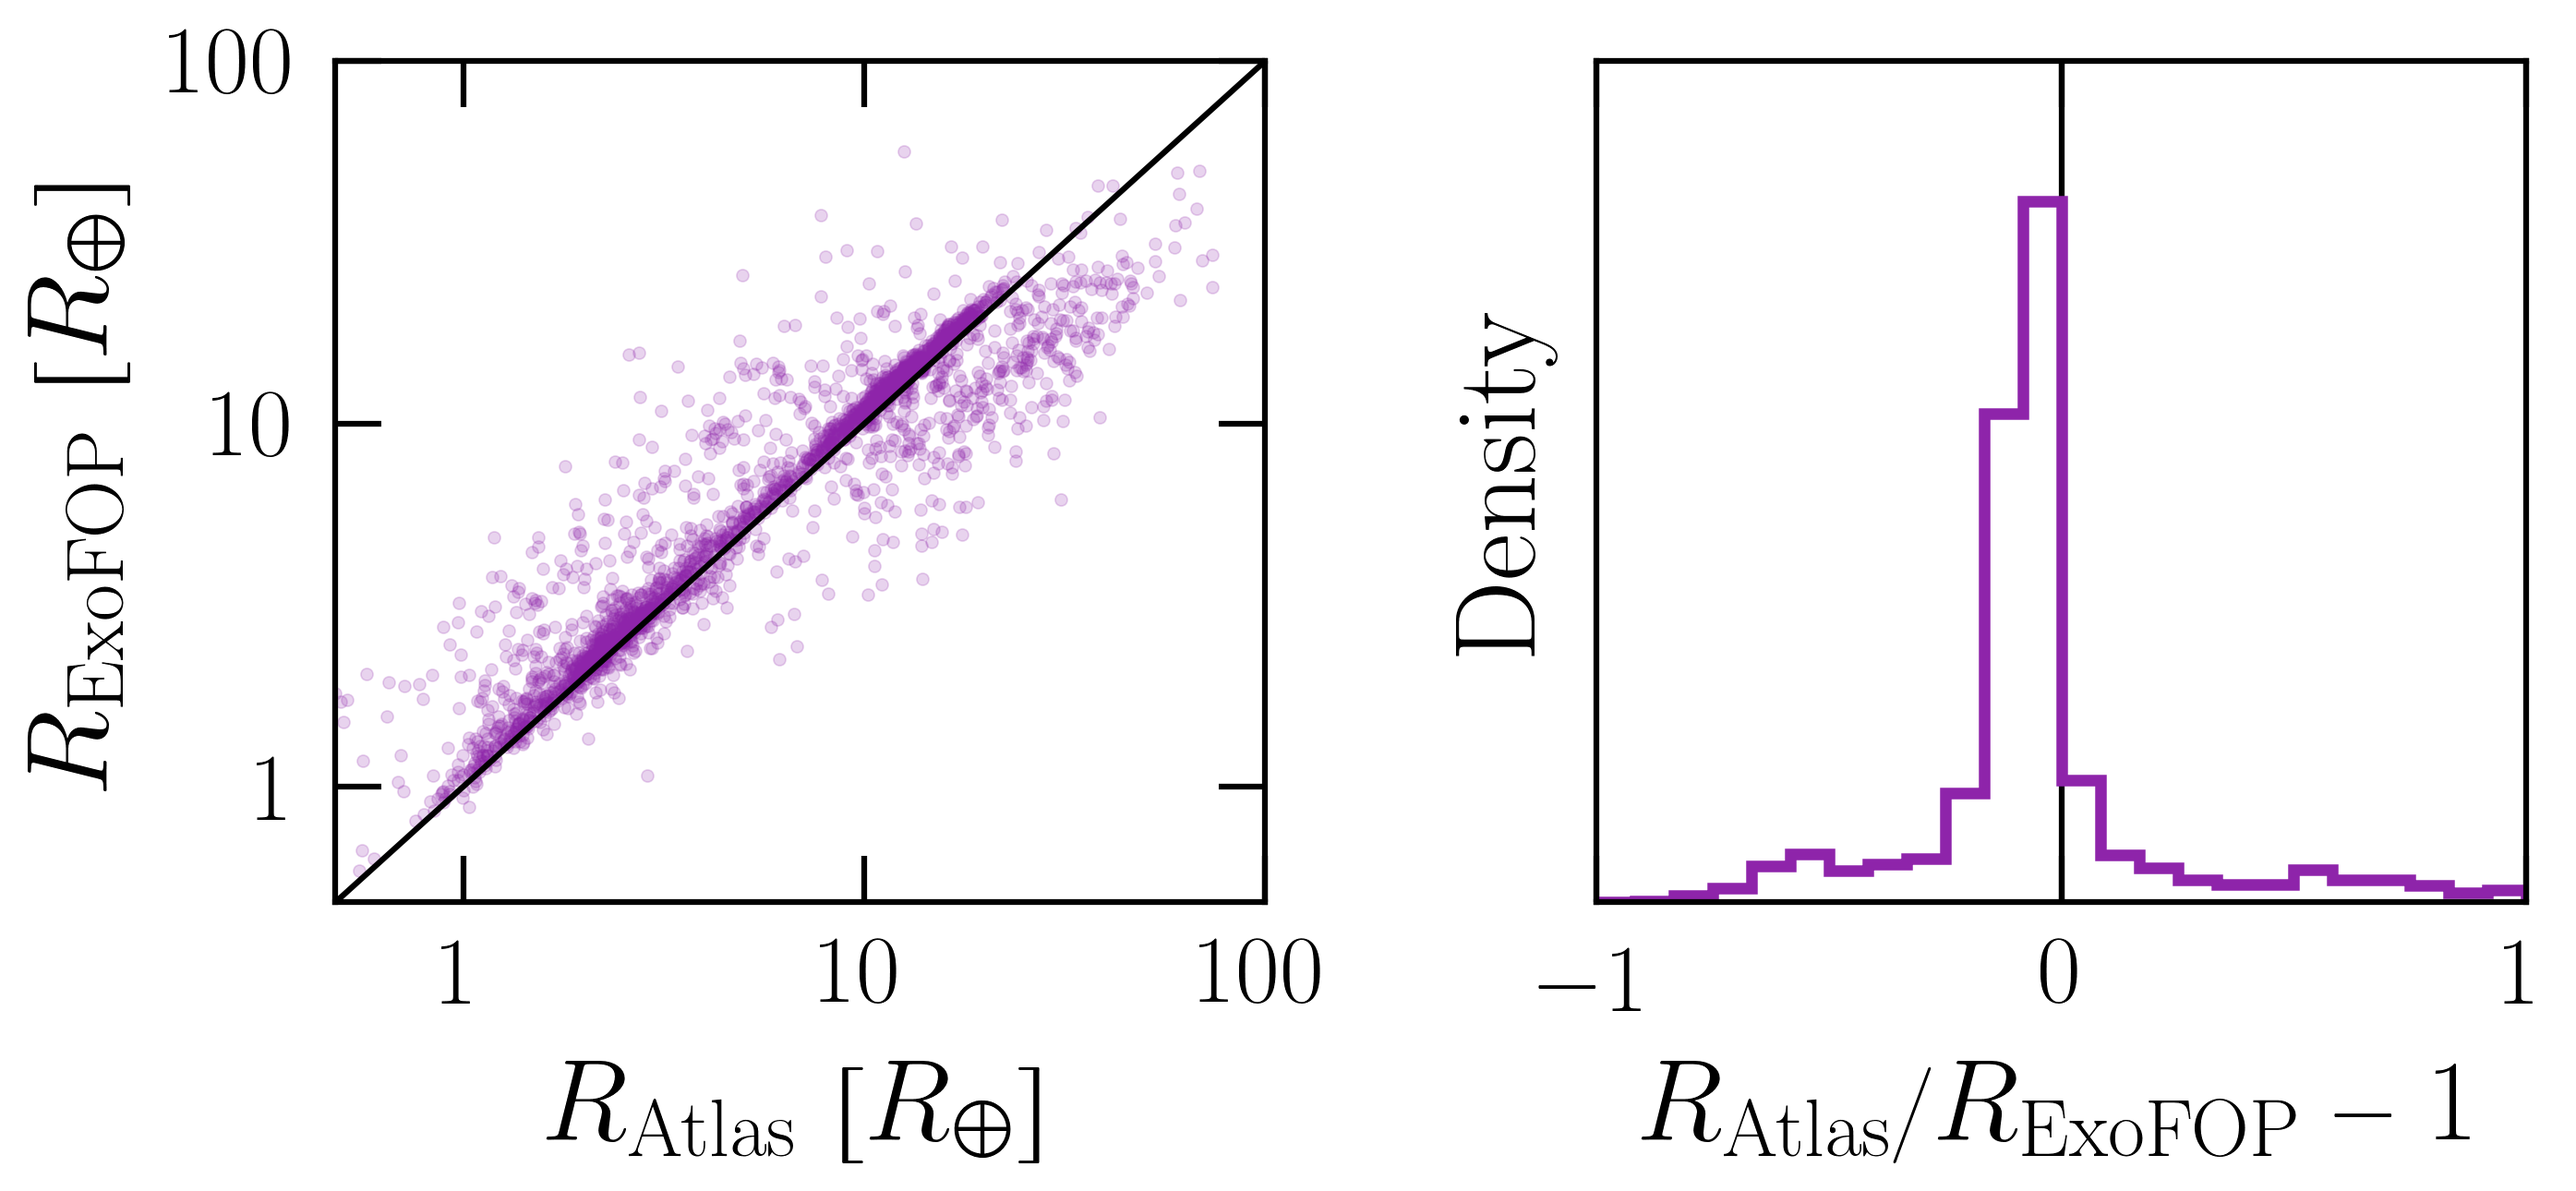
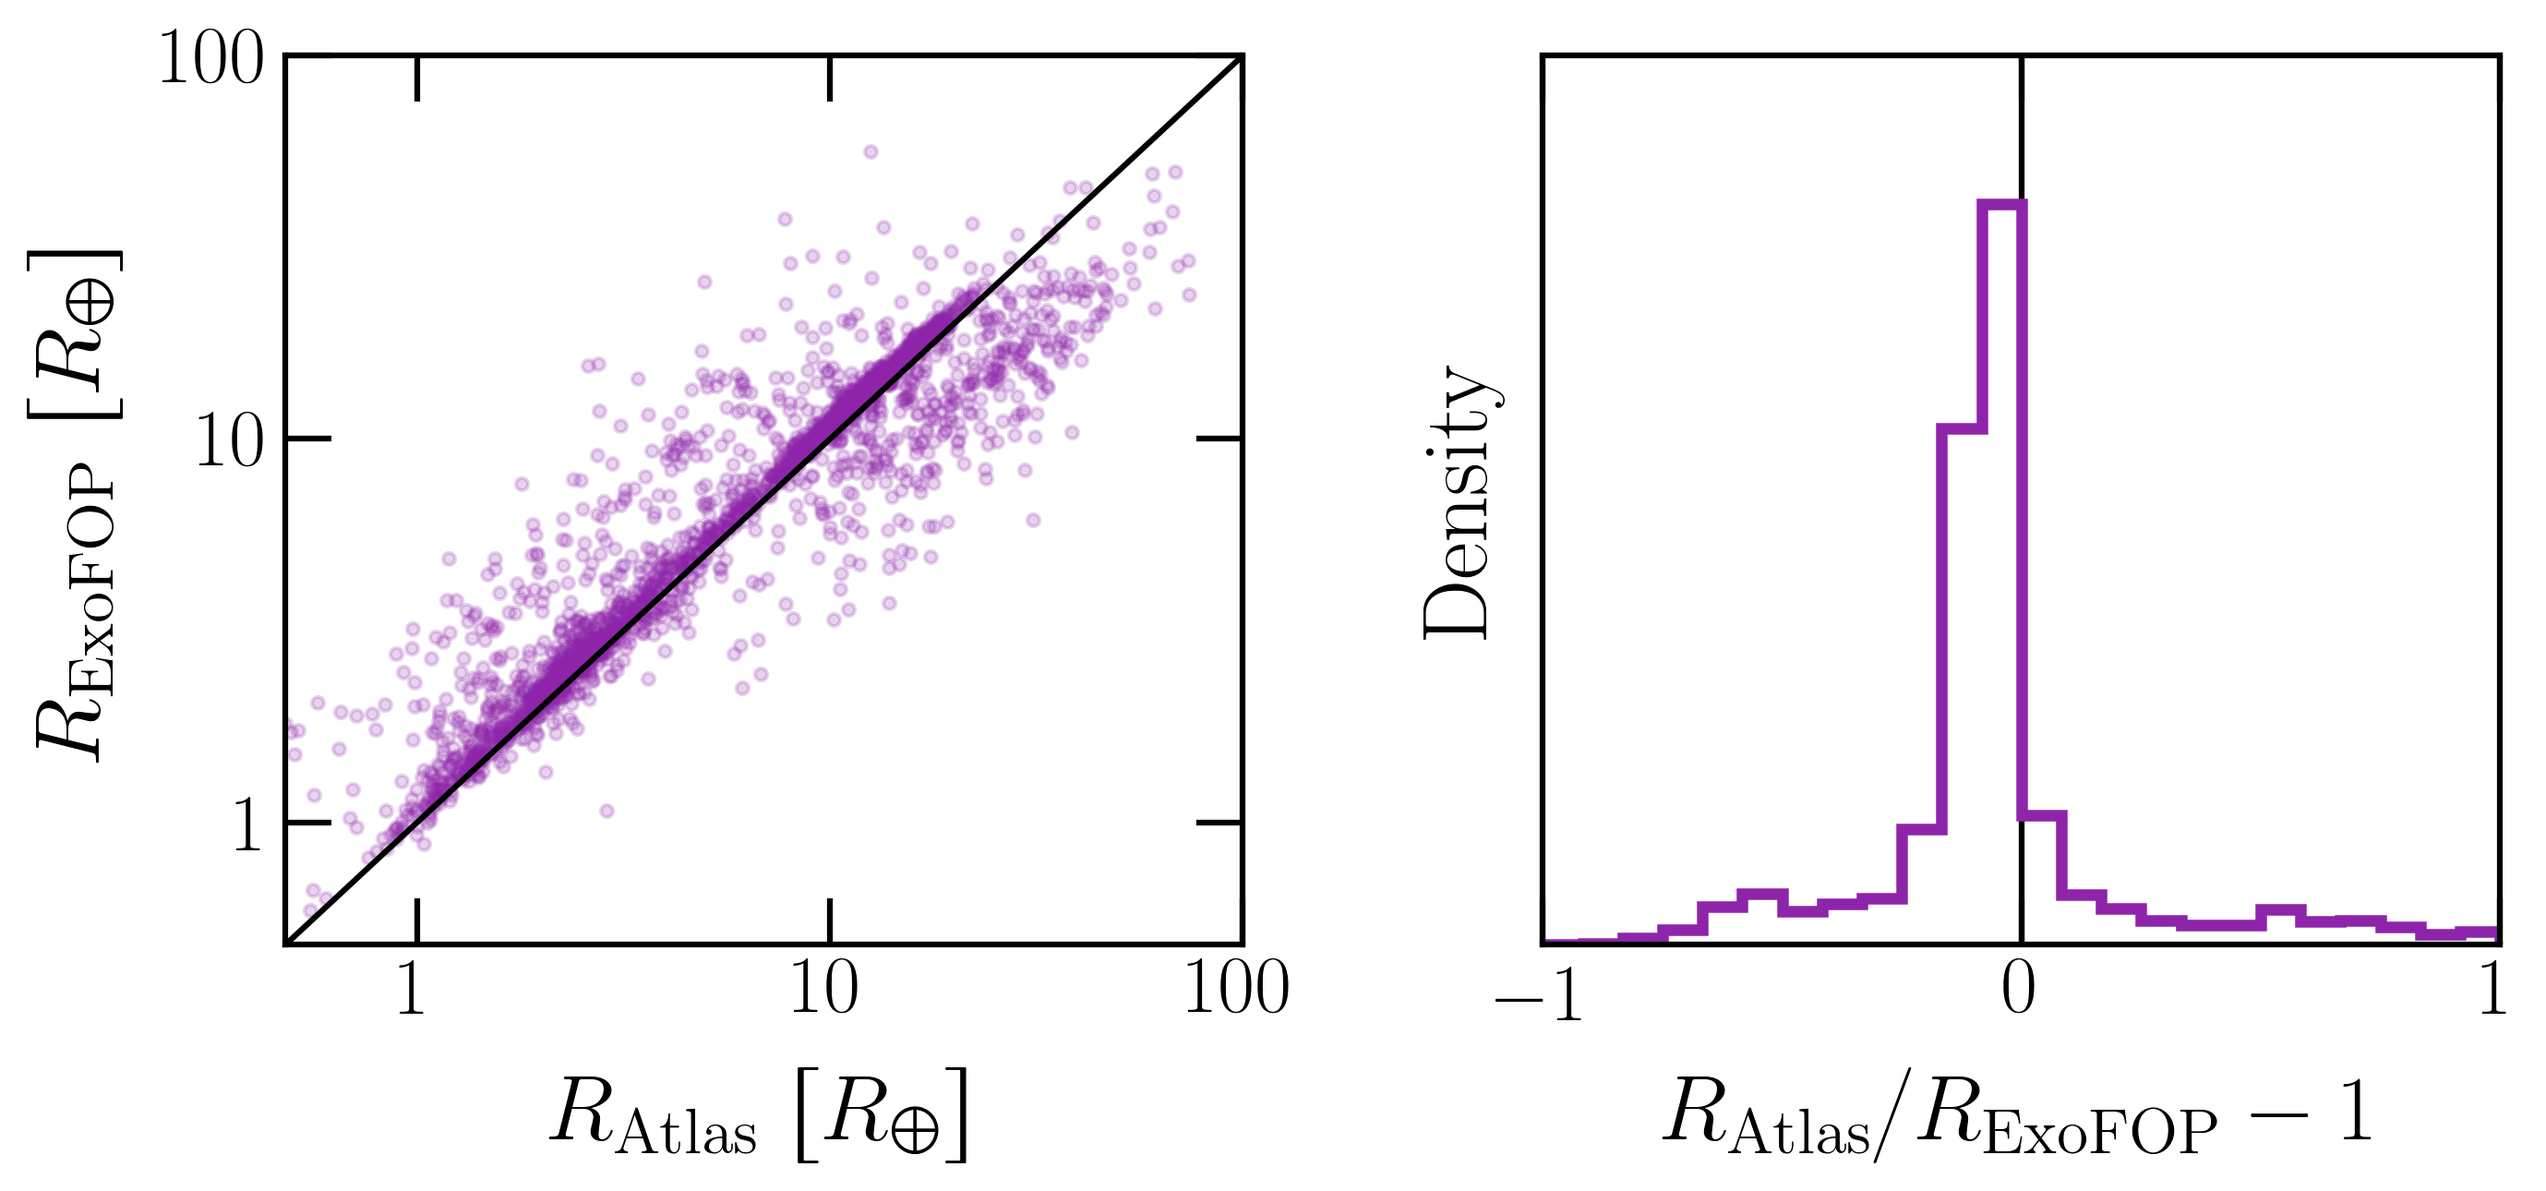
add more plots (#244)

diff --git a/paper/figures/make_plots.py.py b/paper/figures/make_plots.py.py
@@ -20,6 +20,8 @@
 # %autoreload 2
 # %matplotlib inline
 
+# # Make Population Plots of Radius 
+
 # +
 import os, subprocess
 import pandas as pd
@@ -118,22 +120,22 @@ def load_confirmed_catalog(only_transit_exoplanets=True):
 
 
 def set_matplotlib_style_settings(
-    major=7, minor=3, linewidth=1.5, grid=False, topon=True, righton=True
+    major=7, minor=3, linewidth=1.5, grid=False, topon=True, righton=True, tdir="in", fs=30, tickmult=0.7
 ):
-    rcParams["font.size"] = 30
+    rcParams["font.size"] = fs
     rcParams["font.family"] = "serif"
     rcParams["font.weight"] = "normal"
     rcParams["font.sans-serif"] = ["Computer Modern Sans"]
     rcParams["text.usetex"] = True
-    rcParams["axes.labelsize"] = 30
-    rcParams["axes.titlesize"] = 30
+    rcParams["axes.labelsize"] = fs * 0.8
+    rcParams["axes.titlesize"] = fs * 0.8
     rcParams["axes.labelpad"] = 10
     rcParams["axes.linewidth"] = linewidth
     rcParams["axes.edgecolor"] = "black"
-    rcParams["xtick.labelsize"] = 25
-    rcParams["ytick.labelsize"] = 25
-    rcParams["xtick.direction"] = "in"
-    rcParams["ytick.direction"] = "in"
+    rcParams["xtick.labelsize"] = fs * tickmult
+    rcParams["ytick.labelsize"] = fs * tickmult
+    rcParams["xtick.direction"] = tdir
+    rcParams["ytick.direction"] = tdir
     rcParams["xtick.major.size"] = major
     rcParams["xtick.minor.size"] = minor
     rcParams["ytick.major.size"] = major
@@ -142,6 +144,7 @@ def set_matplotlib_style_settings(
     rcParams["xtick.major.width"] = linewidth
     rcParams["ytick.minor.width"] = linewidth
     rcParams["ytick.major.width"] = linewidth
+    rcParams["savefig.dpi"] = 300
     rcParams["xtick.top"] = topon
     rcParams["ytick.right"] = righton
     rcParams["axes.grid"] = grid
@@ -317,7 +320,7 @@ def make_radius_comparions_plot():
     axes[0].set_xticks([1,10,100])
     axes[0].set_yticks([1,10,100])
     fig.tight_layout()
-    fig.savefig("radius_error.png", dpi=300, transparent=False, facecolor='white', bbox_inches='tight', )
+    fig.savefig("radius_error.png", transparent=False, facecolor='white', bbox_inches='tight', )
 
 
 def make_period_radius_comparison_plot():
@@ -328,10 +331,326 @@ def make_period_radius_comparison_plot():
     add_solar_sys_planet_radii_lines(ax[1])
     plot_radii_hist(ax[0])
     add_solar_sys_planet_radii_lines(ax[0])
-    fig.savefig("radius_period_plot.png", dpi=300, transparent=False,facecolor='white',bbox_inches='tight', )
+    fig.savefig("radius_period_plot.png", transparent=False,facecolor='white',bbox_inches='tight', )
     return fig
 
 
     
 fig = make_period_radius_comparison_plot()
 make_radius_comparions_plot()
+# -
+
+# # Make TOI specific plots
+
+# ! download_toi 174 --outdir toi_174_files
+# ! download_toi 103 --outdir toi_174_files
+
+# +
+from tess_atlas.data import TICEntry
+import os
+import aesara_theano_fallback.tensor as tt
+import exoplanet as xo
+import numpy as np
+import pandas as pd
+import pymc3 as pm
+import pymc3_ext as pmx
+from arviz import InferenceData
+from celerite2.theano import GaussianProcess, terms
+
+
+
+
+DEPTH = "depth"
+DURATION = "dur"
+RADIUS_RATIO = "r"
+TIME_START = "tmin"
+TIME_END = "tmax"
+ORBITAL_PERIOD = "p"
+MEAN_FLUX = "f0"
+LC_JITTER = "jitter"
+GP_RHO = "rho"
+GP_SIGMA = "sigma"
+RHO_CIRC = "rho_circ"  # stellar density at e=0
+LIMB_DARKENING_PARAM = "u"
+IMPACT_PARAM = "b"
+
+
+def get_test_duration(min_durations, max_durations, durations):
+    largest_min_duration = np.amax(
+        np.array([durations, 2 * min_durations]), axis=0
+    )
+    smallest_max_duration = np.amin(
+        np.array([largest_min_duration, 0.99 * max_durations]), axis=0
+    )
+    return smallest_max_duration
+
+
+def build_planet_transit_model(tic_entry):
+    t = tic_entry.lightcurve.time
+    y = tic_entry.lightcurve.flux
+    yerr = tic_entry.lightcurve.flux_err
+
+    n = tic_entry.planet_count
+    tmins = np.array([planet.tmin for planet in tic_entry.candidates])
+    depths = np.array([planet.depth for planet in tic_entry.candidates])
+    durations = np.array([planet.duration for planet in tic_entry.candidates])
+    max_durations = np.array(
+        [planet.duration_max for planet in tic_entry.candidates]
+    )
+    min_durations = np.array(
+        [planet.duration_min for planet in tic_entry.candidates]
+    )
+    test_duration = get_test_duration(min_durations, max_durations, durations)
+
+    with pm.Model() as my_planet_transit_model:
+        ## define planet parameters
+
+        # 1) d: transit duration (duration of eclipse)
+        d_priors = pm.Bound(
+            pm.Lognormal, lower=min_durations, upper=max_durations
+        )(
+            name=DURATION,
+            mu=np.log(durations),
+            sigma=np.log(1.2),
+            shape=n,
+            testval=test_duration,
+        )
+
+        # 2) r: radius ratio (planet radius / star radius)
+        r_priors = pm.Lognormal(
+            name=RADIUS_RATIO, mu=0.5 * np.log(depths * 1e-3), sd=1.0, shape=n
+        )
+        # 3) b: impact parameter
+        b_priors = xo.distributions.ImpactParameter(
+            name=IMPACT_PARAM, ror=r_priors, shape=n
+        )
+        planet_priors = [r_priors, d_priors, b_priors]
+
+        ## define orbit-timing parameters
+
+        # 1) tmin: the time of the first transit in data (a reference time)
+        tmin_norm = pm.Bound(
+            pm.Normal, lower=tmins - max_durations, upper=tmins + max_durations
+        )
+        tmin_priors = tmin_norm(
+            TIME_START, mu=tmins, sigma=0.5 * durations, shape=n, testval=tmins
+        )
+
+        # 2) period: the planets' orbital period
+        p_params, p_priors_list, tmax_priors_list = [], [], []
+        for n, planet in enumerate(tic_entry.candidates):
+            # if only one transit in data we use the period
+            if planet.has_data_only_for_single_transit:
+                p_prior = pm.Pareto(
+                    name=f"{ORBITAL_PERIOD}_{planet.index}",
+                    m=planet.period_min,
+                    alpha=2.0 / 3.0,
+                    testval=planet.period,
+                )
+                p_param = p_prior
+                tmax_prior = planet.tmin
+            # if more than one transit in data we use a second time reference (tmax)
+            else:
+                tmax_norm = pm.Bound(
+                    pm.Normal,
+                    lower=planet.tmax - planet.duration_max,
+                    upper=planet.tmax + planet.duration_max,
+                )
+                tmax_prior = tmax_norm(
+                    name=f"{TIME_END}_{planet.index}",
+                    mu=planet.tmax,
+                    sigma=0.5 * planet.duration,
+                    testval=planet.tmax,
+                )
+                p_prior = (tmax_prior - tmin_priors[n]) / planet.num_periods
+                p_param = tmax_prior
+
+            p_params.append(p_param)  # the param needed to calculate p
+            p_priors_list.append(p_prior)
+            tmax_priors_list.append(tmax_prior)
+
+        p_priors = pm.Deterministic(ORBITAL_PERIOD, tt.stack(p_priors_list))
+        tmax_priors = pm.Deterministic(TIME_END, tt.stack(tmax_priors_list))
+
+        ## define stellar parameters
+
+        # 1) f0: the mean flux from the star
+        f0_prior = pm.Normal(name=MEAN_FLUX, mu=0.0, sd=10.0)
+
+        # 2) u1, u2: limb darkening parameters
+        u_prior = xo.distributions.QuadLimbDark("u")
+        stellar_priors = [f0_prior, u_prior]
+
+        ## define k(t, t1; parameters)
+        jitter_prior = pm.InverseGamma(
+            name=LC_JITTER, **pmx.estimate_inverse_gamma_parameters(1.0, 5.0)
+        )
+        sigma_prior = pm.InverseGamma(
+            name=GP_SIGMA, **pmx.estimate_inverse_gamma_parameters(1.0, 5.0)
+        )
+        rho_prior = pm.InverseGamma(
+            name=GP_RHO, **pmx.estimate_inverse_gamma_parameters(0.5, 10.0)
+        )
+        kernel = terms.SHOTerm(sigma=sigma_prior, rho=rho_prior, Q=0.3)
+        noise_priors = [jitter_prior, sigma_prior, rho_prior]
+
+        ## define the lightcurve model mu(t;paramters)
+        orbit = xo.orbits.KeplerianOrbit(
+            period=p_priors,
+            t0=tmin_priors,
+            b=b_priors,
+            duration=d_priors,
+            ror=r_priors,
+        )
+        star = xo.LimbDarkLightCurve(u_prior)
+        lightcurve_models = star.get_light_curve(orbit=orbit, r=r_priors, t=t)
+        lightcurve = 1e3 * pm.math.sum(lightcurve_models, axis=-1) + f0_prior
+        my_planet_transit_model.lightcurve_models = lightcurve_models
+        rho_circ = pm.Deterministic(name=RHO_CIRC, var=orbit.rho_star)
+
+        # Finally the GP likelihood
+        residual = y - lightcurve
+        gp = GaussianProcess(
+            kernel, t=t, diag=yerr**2 + jitter_prior**2, quiet=True
+        )
+        gp.marginal(name="obs", observed=residual)
+        my_planet_transit_model.gp_mu = gp.predict(residual, return_var=False)
+
+        # cache params
+        my_params = dict(
+            planet_params=planet_priors,
+            noise_params=noise_priors,
+            stellar_params=stellar_priors,
+            period_params=p_params,
+        )
+    return my_planet_transit_model, my_params
+
+tic_entry = TICEntry.from_cache(174, outdir="toi_174_files")
+tic_entry.lightcurve.filter_non_transit_data(tic_entry.candidates)
+planet_transit_model, _  = build_planet_transit_model(tic_entry)
+
+# +
+import matplotlib.pyplot as plt
+import matplotlib.ticker as ticker
+from tess_atlas.plotting.phase_plotter import add_phase_data_to_ax, _preprocess_phase_plot_data
+
+
+def plot_toi_phase_subplots(tic_entry, planet_transit_model):
+    initial_params = tic_entry.optimized_params.to_dict()
+    inference_data = tic_entry.inference_data
+    model = planet_transit_model
+    kwgs = _preprocess_phase_plot_data(tic_entry, model, inference_data, initial_params, kwgs={"num_lc":1000}) 
+    fs = 20
+    set_matplotlib_style_settings(fs=20, tickmult=0.8)
+    labelfs = rcParams
+    n = tic_entry.planet_count
+    fig, axes = plt.subplots(n,1, figsize=(6.5, 3*n), sharex=True)
+    kwgs.update(dict(
+        save=False, legend=2, annotate_with_period=False, default_fs=20, legend_fs = 16
+    ))
+    for i in range(tic_entry.planet_count):
+        ax = axes[i]
+        add_phase_data_to_ax(ax, i, tic_entry, **kwgs)
+
+    for ax in axes:
+        ax.yaxis.set_major_locator(ticker.MaxNLocator(2))
+        ax.set_xlim(-.2,.2)
+        ax.yaxis.set_major_formatter(ticker.StrMethodFormatter('{x:,.1f}'))
+        ax.set_ylabel("Flux [ppt]")
+    fig.subplots_adjust(wspace=0, hspace=0)
+    fig.savefig("toi_174_phase.png", transparent=False,facecolor='white',bbox_inches='tight')
+
+
+plot_toi_phase_subplots(tic_entry, planet_transit_model)
+
+
+
+
+# +
+from tess_atlas.plotting.corner_plotter import plot_posteriors
+
+set_matplotlib_style_settings(major=2, tdir='out', tickmult=0.6)
+
+plot_posteriors(
+    tic_entry, 
+    tic_entry.inference_data, 
+    tic_entry.optimized_params.to_dict(), 
+    plot_params=["r", "b", "p", "dur"],
+    title=False,
+    fname="planet_{}_posterior.png",
+)
+
+
+
+# ! rm planet_1_posterior.png planet_2_posterior.png planet_4_posterior.png planet_5_posterior.png
+
+
+# +
+import pandas as pd 
+from tess_atlas.plotting.corner_plotter import plot_eccentricity_posteriors
+
+set_matplotlib_style_settings(major=2, tdir='out', tickmult=0.6)
+
+ecc_samples = pd.read_csv("toi_174_files/eccentricity_samples.csv")
+plot_eccentricity_posteriors(tic_entry, ecc_samples, title=False, fname="ecc_{}_posterior.png",)
+
+# ! rm ecc_1_posterior.png  ecc_2_posterior.png  ecc_4_posterior.png  ecc_5_posterior.png
+# -
+
+tic_entry_2 = TICEntry.from_cache(103, outdir="toi_103_files")
+tic_entry_2.lightcurve.filter_non_transit_data(tic_entry_2.candidates)
+planet_transit_model_2, _  = build_planet_transit_model(tic_entry_2)
+
+
+# +
+
+def plot_lightcurve_gp_and_residuals(
+    tic_entry, model,  num_lc=12
+):
+    set_matplotlib_style_settings(fs=30, tickmult=0.8, major = 10 )
+    colors = get_colors(tic_entry.planet_count)
+    t = tic_entry.lightcurve.time
+    y = tic_entry.lightcurve.flux
+    lcs, gp_model, _ = get_lc_and_gp_from_inference_object(
+        model, tic_entry.inference_data, n=num_lc
+    )
+    raw_lc = tic_entry.lightcurve.raw_lc
+    raw_t, raw_y = raw_lc.time.value, 1e3 * (raw_lc.flux.value - 1)
+    
+    idx = [i for i in range(len(t))]
+
+    fig, ax = plt.subplots(1, 1, figsize=(10, 4), sharex=True)
+
+    ax.scatter(raw_t, raw_y, c="gray", label="Raw Data", s=1, alpha=0.5)
+    transit_mask = tic_entry.lightcurve.get_transit_mask(tic_entry.candidates, 0.295)
+
+    ax.scatter(t[idx], y[idx], c="k", label="Filtered Data", s=1)
+
+    for i in range(tic_entry.planet_count):
+        lc = np.median(lcs[..., i], axis=0)
+        model_y = lc[idx] + gp_model[idx]
+        m = model_y.copy()
+        m[~transit_mask] = np.nan
+        ax.plot(
+            t[idx],
+            m,
+            label=f"Model",
+            color=colors[i],
+            lw = 5,
+            alpha=0.5
+        )
+
+    l = ax.legend(loc=(1.03, 0.5), fontsize=20,  markerscale=8, frameon=False)
+    ax.set_ylabel("Flux [ppt]")
+    ax.set_xlabel("Time [days]")
+    fig.subplots_adjust(hspace=0, wspace=0)
+    plt.xlim(1340, 1347)
+    plt.ylim(-13, 8)
+    plt.yticks([0, -10])
+    plt.tight_layout()
+    
+
+
+plot_lightcurve_gp_and_residuals(tic_entry_2, planet_transit_model_2)
+plt.savefig("raw_data_toi_103.png")
+
